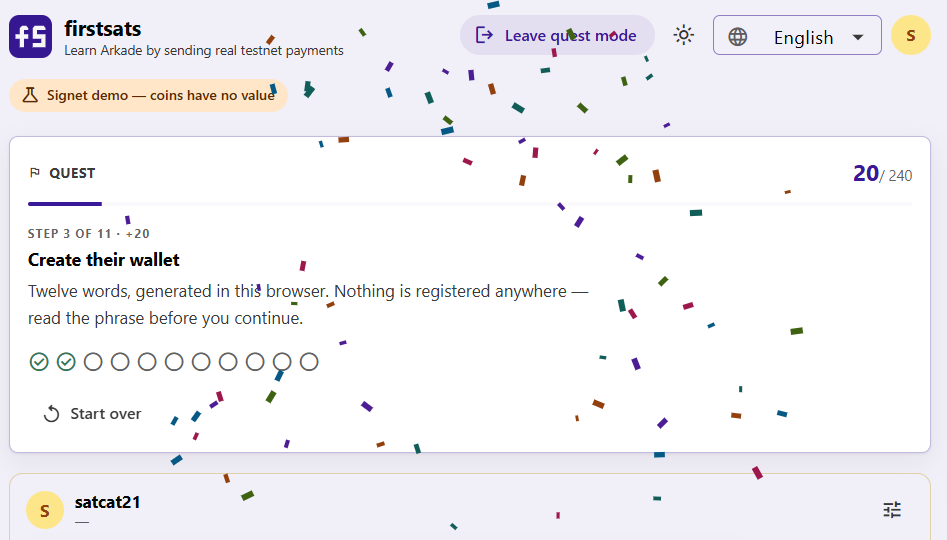
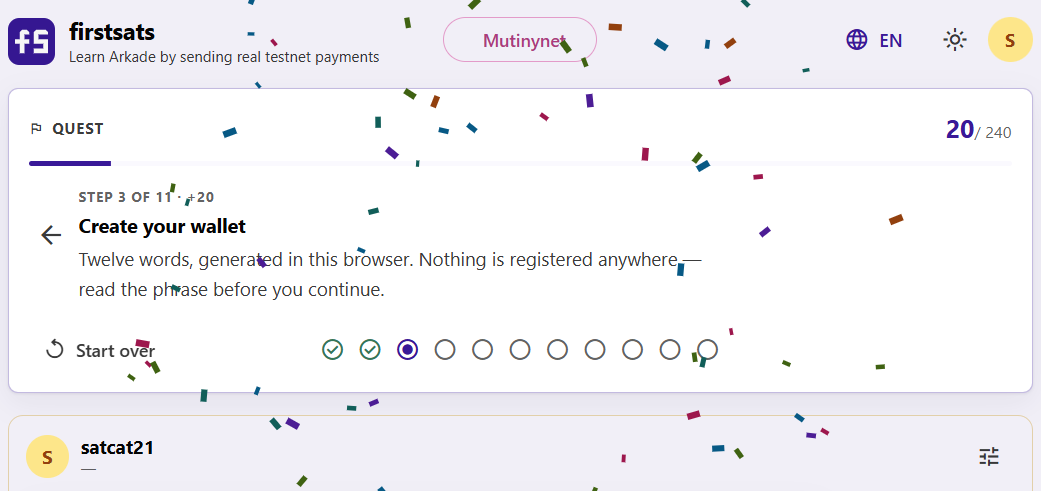
Update the docs for two networks, and refresh the screenshots
The prose still described a signet-only app. It has not been one since the
network switcher landed, and several of the claims had become false rather than
merely dated.

04-web-ui.md said the app runs against the signet deployment, listed only the
signet hosts as the CORS evidence for going backend-only, and justified keeping
the seed in cleartext localStorage on the grounds that the app is signet-only
and the UI says so on every screen. The screen it meant was the demo badge,
which the header button replaced. It now says what is true: every preset the
browser offers is a test network, mainnet is not among them, and the header
names the chain in its own colour with the tooltip that carries the warning.

03-architecture.md had the module map claiming signet by default, and its
example of a PaymentError message had drifted from the string the code actually
throws -- which matters more than usual there, since the section exists to show
that those messages are written for a beginner.

It also gained a section on the one SDK default this app turns off. Left
undefined, settlementConfig runs a background poll that auto-settles boarding
inputs about every minute; here that both hides the step the app exists to teach
and races the explicit onboarding for the same output, so the server honours
neither intent and the round fails. Anyone copying the wallet setup out of this
repo needs to know that, and it was documented nowhere.
[…]

diff --git a/docs/03-architecture.md b/docs/03-architecture.md
@@ -8,7 +8,7 @@ around it.
 src/               shared core -- no Node globals except where noted
   account.ts       The teachable API over the SDK's Wallet   <- start here
   narrator.ts      The "show your work" event stream
-  config.ts        Network presets (signet by default) + env overrides
+  config.ts        Network presets (mutinynet by default) + env overrides
   format.ts        Pure presentation helpers
   browser.ts       Barrel of the four modules above, for the web build
   index.ts         Node entry point (adds the three below)
@@ -82,8 +82,9 @@ and no flakiness. The live path is covered separately by the opt-in e2e suite.
 `PaymentError` messages are written for someone who has never used Bitcoin:
 
 > `"tb1qxy…8s2m" is not a valid arkade address. Arkade addresses start with
-> `ark1`. If you have a normal on-chain address (`bc1`, `tb1`), use `offboard`
-> instead — that is a withdrawal, not an off-chain payment.`
+> `ark1` on mainnet and `tark1` on test networks. If you have a normal on-chain
+> address (`bc1`, `tb1`), use `offboard` instead — that is a withdrawal, not an
+> off-chain payment.`
 
 Every check runs before anything is signed or sent.
 
@@ -113,6 +114,22 @@ but it is *not* what a production wallet should do. Your exit data is what lets
 you leave without the server's help, and losing it means losing that guarantee
 (see [How Ark works](./01-how-ark-works.md)). For a real application use
 `SQLiteWalletRepository` in Node or the IndexedDB repositories in a browser.
+
+## One SDK default this app turns off
+
+Both wallet builders — [`src/wallet.ts`](../src/wallet.ts) and its browser
+counterpart — pass `settlementConfig: false`.
+
+Left undefined, the SDK runs a background poll that auto-settles new boarding
+inputs into Ark roughly every minute. For a production wallet that is a sensible
+default. Here it is wrong twice over. Onboarding is the step this app exists to
+show, and a step that happens by itself teaches nothing. Worse, the automatic
+settle races an explicit one for the same boarding output: both register an
+intent, the server honours neither, and the round fails with `no matching intents
+found for intent proof`.
+
+Worth knowing if you copy the wallet setup out of this repo — with the poll on,
+you get onboarding for free and no control over when it happens.
 
 ## Testing strategy
 

diff --git a/README.md b/README.md
@@ -90,7 +90,7 @@ construction and rendering differ. See
 
 ### Screenshots
 
-Four moments from a real signet session, in the order you meet them.
+Moments from a real session, in the order you meet them.
 
 **Starting out.** No wallet, no account, nothing registered anywhere — a user is
 just a person in the demo, and the wallet is something they choose to make.
@@ -120,7 +120,7 @@ boarding one that a faucet pays.
   <img src="docs/screenshots/guide.png" alt="The guided tour open beside the Receive screen" width="820">
 </p>
 
-**Two wallets, side by side, mid-payment.** Alice pays Bob 1,000 sats off-chain
+**Two wallets, side by side, mid-payment.** Alice pays Bob 35,000 sats off-chain
 while both panes are on screen, so the payment can be watched from both ends.
 Each user carries their own colour through their avatar, tabs and notifications,
 and the narration toast says what just happened and offers the reasoning behind
@@ -130,8 +130,8 @@ it.
   <img src="docs/screenshots/sending-in-ark.png" alt="Alice paying Bob in Ark, both wallets visible" width="820">
 </p>
 
-**The same payment from both sides.** One arkade transaction, `44afc240…421f94`,
-appearing as −1,000 for Alice and +1,000 for Bob. Below it, each wallet's own
+**The same payment from both sides.** One arkade transaction, `34abaf4a…72b264`,
+appearing as −35,000 for Alice and +35,000 for Bob. Below it, each wallet's own
 history: the deposit that arrived on-chain, and the round that brought it into
 Ark — separate actions, because they happened at different times for different
 reasons. Only the on-chain ones carry an explorer link; an Ark payment has no
@@ -303,8 +303,8 @@ published site is fixed to whichever deployment it was built against.
 **This is a demo. Do not put real money in it.** The CLI stores seeds
 unencrypted on disk and `init` prints the recovery phrase to stdout; the web app
 keeps the seed in `localStorage`, where any script on the origin can read it.
-These are deliberate simplifications, acceptable only because the defaults point
-at signet, where coins are worthless.
+These are deliberate simplifications, acceptable only because every network on
+offer is a test network, where coins are worthless.
 
 See [SECURITY.md](SECURITY.md) for the full policy and how to report a
 vulnerability privately.

diff --git a/docs/04-web-ui.md b/docs/04-web-ui.md
@@ -7,8 +7,11 @@ npm run web          # dev server on http://localhost:4200
 npm run web:build    # production bundle into apps/web/dist
 ```
 
-It runs against the same public Arkade signet deployment as the CLI, and it is
-the same code doing the work.
+It runs against the same public Arkade deployments as the CLI — both default to
+mutinynet — and it is the same code doing the work. Unlike the CLI, which reads
+`FIRSTSATS_NETWORK` once at startup, the web app can switch between mutinynet and
+signet at runtime from the header. Regtest is CLI-only: its server is on
+`http://localhost`, and a page served over HTTPS cannot call it.
 
 ---
 
@@ -22,9 +25,10 @@ your money"* cannot demonstrate that by handing the keys to a backend.
 Two facts made the browser-only route viable, and both were checked rather than
 assumed:
 
-1. **The Arkade endpoints allow cross-origin requests.** Both
-   `signet.arkade.sh` and `mempool.signet.arkade.sh` return
-   `Access-Control-Allow-Origin: *`, so the page talks to them directly.
+1. **The Arkade endpoints allow cross-origin requests.** The Ark servers and
+   their mempool instances — `mutinynet.arkade.sh`, `signet.arkade.sh` and the
+   `mempool.*` hosts beside them — return `Access-Control-Allow-Origin: *`, so
+   the page talks to them directly.
 2. **The SDK is built for browsers.** It ships IndexedDB repositories, and a
    browser already has a native `EventSource`.
 
@@ -196,8 +200,10 @@ The browser keystore writes the mnemonic to `localStorage` in cleartext.
 dependency, an XSS bug, a malicious extension. That is a strictly weaker position
 than the CLI's file, which at least requires filesystem access.
 
-It is acceptable here for exactly one reason: the app is signet-only, and signet
-coins are worthless. The UI says so on every screen.
+It is acceptable here for exactly one reason: the app only ever talks to test
+networks, whose coins are worthless. Mainnet is not among the presets the browser
+offers, and the header names the chain in its own colour with a tooltip saying
+the coins have no value.
 
 A real browser wallet would encrypt the seed under a user passphrase and store
 only ciphertext, or keep it in a service worker that never exposes it to the

diff --git a/docs/02-payment-flow.md b/docs/02-payment-flow.md
@@ -90,7 +90,7 @@ Your wallet registers an intent with the server and waits for the next batch
 round. The server builds **one commitment transaction covering everyone in that
 round**, and your share becomes a leaf in its tree.
 
-This takes about a minute on the public signet deployment — one batch session —
+This takes about a minute on the public deployments — one batch session —
 because it is genuinely waiting for a block-bound event. It is also the *only*
 step in this entire flow that touches the blockchain.
 

diff --git a/docs/01-how-ark-works.md b/docs/01-how-ark-works.md
@@ -100,8 +100,9 @@ batch consumes.
 
 ### In-round (settled)
 
-The server runs batch rounds on a fixed cadence — the public signet deployment
-uses a 60-second session, which `firstsats info` will show you. In a round, the
+The server runs batch rounds on a fixed cadence — the public mutinynet and
+signet deployments both use a 60-second session, which `firstsats info` will
+show you. In a round, the
 server collects everyone's requests, builds one new commitment transaction with
 a fresh tree, and puts it on-chain.
 
